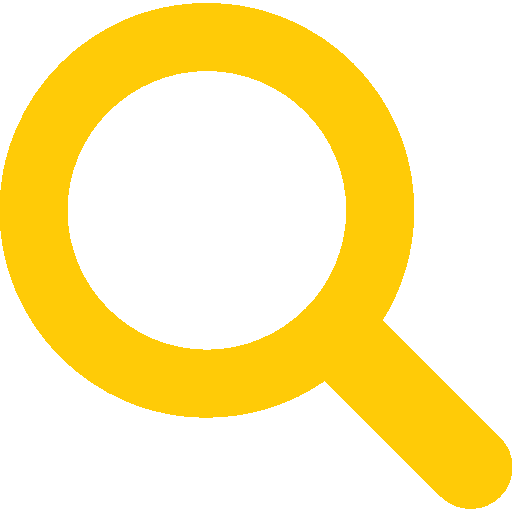
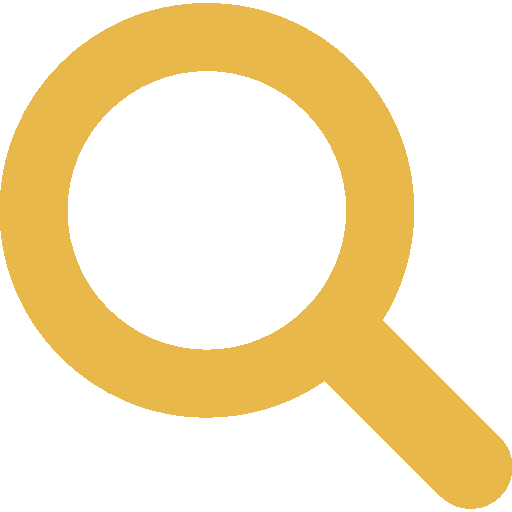
napravljena stranica za admin opcije nad autorima + neke dzidzabidze

diff --git a/author-admin-list.html b/author-admin-list.html
@@ -75,7 +75,9 @@
                 <div class="nav-links">
                     <a href="profile.html" class="nav-link">➜ Профил</a>
                     <a href="lista-knjiga.html" class="nav-link">➜ Књиге</a>
-                    <a href="author-list.html" class="nav-link active">➜ Аутори</a>
+                    <a href="admin-lista-knjiga.html" class="nav-link"> ➜ Админ књиге</a>
+                    <a href="author-list.html" class="nav-link">➜ Аутори</a>
+                    <a href="author-admin-list.html" class="nav-link active"> ➜ Админ аутори</a>
                 </div>
             </div>
         <div class="search-part">
@@ -131,6 +133,136 @@
             </div>
             <div class="item-element">
                 <p class="text">Менаџер</p>
+            </div>
+        </button>
+        <button class="item">
+            <div class="item-element">
+                <p class="text">0</p>
+            </div>
+            <div class="item-element">
+                <p class="text">Именко</p>
+            </div>
+            <div class="item-element">
+                <p class="text">Презименковић</p>
+            </div>
+            <div class="item-element">
+                <p class="text">02.04.1992</p>
+            </div>
+            <div class="item-element">
+                <p class="text">Преминуо</p>
+            </div>
+            <div class="item-element">
+                <p class="text">0</p>
+            </div>
+            <div class="item-element">
+                <p class="text">0</p>
+            </div>
+            <div class="item-element">
+                <p class="text">0643822833</p>
+            </div>
+        </button>
+        <button class="item">
+            <div class="item-element">
+                <p class="text">0</p>
+            </div>
+            <div class="item-element">
+                <p class="text">Именко</p>
+            </div>
+            <div class="item-element">
+                <p class="text">Презименковић</p>
+            </div>
+            <div class="item-element">
+                <p class="text">02.04.1992</p>
+            </div>
+            <div class="item-element">
+                <p class="text">Преминуо</p>
+            </div>
+            <div class="item-element">
+                <p class="text">0</p>
+            </div>
+            <div class="item-element">
+                <p class="text">0</p>
+            </div>
+            <div class="item-element">
+                <p class="text">0643822833</p>
+            </div>
+        </button>
+        <button class="item">
+            <div class="item-element">
+                <p class="text">0</p>
+            </div>
+            <div class="item-element">
+                <p class="text">Именко</p>
+            </div>
+            <div class="item-element">
+                <p class="text">Презименковић</p>
+            </div>
+            <div class="item-element">
+                <p class="text">02.04.1992</p>
+            </div>
+            <div class="item-element">
+                <p class="text">Преминуо</p>
+            </div>
+            <div class="item-element">
+                <p class="text">0</p>
+            </div>
+            <div class="item-element">
+                <p class="text">0</p>
+            </div>
+            <div class="item-element">
+                <p class="text">0643822833</p>
+            </div>
+        </button>
+        <button class="item">
+            <div class="item-element">
+                <p class="text">0</p>
+            </div>
+            <div class="item-element">
+                <p class="text">Именко</p>
+            </div>
+            <div class="item-element">
+                <p class="text">Презименковић</p>
+            </div>
+            <div class="item-element">
+                <p class="text">02.04.1992</p>
+            </div>
+            <div class="item-element">
+                <p class="text">Преминуо</p>
+            </div>
+            <div class="item-element">
+                <p class="text">0</p>
+            </div>
+            <div class="item-element">
+                <p class="text">0</p>
+            </div>
+            <div class="item-element">
+                <p class="text">0643822833</p>
+            </div>
+        </button>
+        <button class="item">
+            <div class="item-element">
+                <p class="text">0</p>
+            </div>
+            <div class="item-element">
+                <p class="text">Именко</p>
+            </div>
+            <div class="item-element">
+                <p class="text">Презименковић</p>
+            </div>
+            <div class="item-element">
+                <p class="text">02.04.1992</p>
+            </div>
+            <div class="item-element">
+                <p class="text">Преминуо</p>
+            </div>
+            <div class="item-element">
+                <p class="text">0</p>
+            </div>
+            <div class="item-element">
+                <p class="text">0</p>
+            </div>
+            <div class="item-element">
+                <p class="text">0643822833</p>
             </div>
         </button>
         <button class="item">

diff --git a/function.js b/function.js
@@ -33,27 +33,29 @@ function goToAutor() {
 }
 
 
-
 var items = document.querySelectorAll(".item");
 
-function handleClick(event) {
-  var clickedItem = event.target;
+    function handleClick(event) {
+      var clickedItem = event.currentTarget;
 
-  removeSelection();
+      removeSelection();
 
-  clickedItem.classList.add("selected");
-}
+      clickedItem.classList.add("selected");
+      console.log("selection added" + clickedItem.classList);
+    }
 
-function removeSelection() {
-  for (var i = 0; i < items.length; i++) {
-    items[i].classList.remove("selected");
-  }
-}
+    function removeSelection() {
+      for (var i = 0; i < items.length; i++) {
+        items[i].classList.remove("selected");
+        console.log("selection removed");
+      }
+    }
 
-function init() {
-  for (var i = 0; i < items.length; i++) {
-    items[i].addEventListener("click", handleClick);
-  }
-}
+    function init() {
+      for (var i = 0; i < items.length; i++) {
+        items[i].addEventListener("click", handleClick);
+        console.log("Items loaded");
+      }
+    }
 
-init();
+    init();

diff --git a/author.html b/author.html
@@ -75,7 +75,9 @@
                 <div class="nav-links">
                     <a href="profile.html" class="nav-link">➜ Профил</a>
                     <a href="lista-knjiga.html" class="nav-link">➜ Књиге</a>
-                    <a href="author-list.html" class="nav-link active">➜ Аутори</a>
+                    <a href="admin-lista-knjiga.html" class="nav-link"> ➜ Админ књиге</a>
+                    <a href="author-list.html" class="nav-link">➜ Аутори</a>
+                    <a href="author-admin-list.html" class="nav-link"> ➜ Админ аутори</a>
                 </div>
             </div>
     </div>
@@ -84,7 +86,7 @@
 
 <main>
     <div class="return-container">
-        <a href="author-list.html" class="return text big">&lt;- Назад на почетну страницу</a>
+        <a href="author-list.html" class="return text big">⬅ Назад на ауторе</a>
     </div>
     <div class="author-container">
         <div class="author-main">

diff --git a/author-admin-list-style.css b/author-admin-list-style.css
@@ -54,6 +54,9 @@
                 0 0 20px #E8B84B,
                 0 0 30px #E8B84B;
 }
+.item.selected{
+    background-color: #816f0a;
+}
 
 .item-element{
     flex:1;
@@ -69,5 +72,5 @@
 }
 
 .table-header .item-element{
-    background-color: #96711a;
+    background-color: #816f0a;
 }

diff --git a/shared-style.css b/shared-style.css
@@ -107,7 +107,7 @@ header {
     background-color: #161412;
     border-right: 2px solid #E8B84B;
     padding-top: 20px;
-    margin-bottom: 50px;
+    padding-bottom: 50px;
 }
 .sidebar-content{
     display: flex;
@@ -244,7 +244,7 @@ p{
 }
 .faded{
     
-    color: #96711a;
+    color: #816f0a;
 }
 
 .thick{

diff --git a/author-list.html b/author-list.html
@@ -75,7 +75,9 @@
                 <div class="nav-links">
                     <a href="profile.html" class="nav-link">➜ Профил</a>
                     <a href="lista-knjiga.html" class="nav-link">➜ Књиге</a>
+                    <a href="admin-lista-knjiga.html" class="nav-link"> ➜ Админ књиге</a>
                     <a href="author-list.html" class="nav-link active">➜ Аутори</a>
+                    <a href="author-admin-list.html" class="nav-link"> ➜ Админ аутори</a>
                 </div>
             </div>
         <div class="search-part">